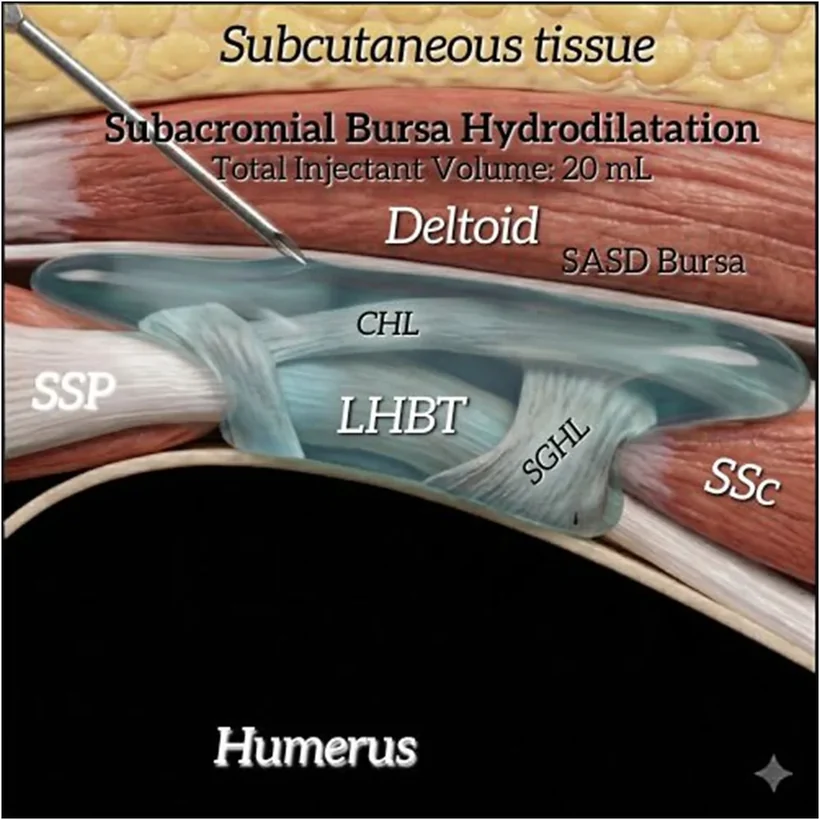
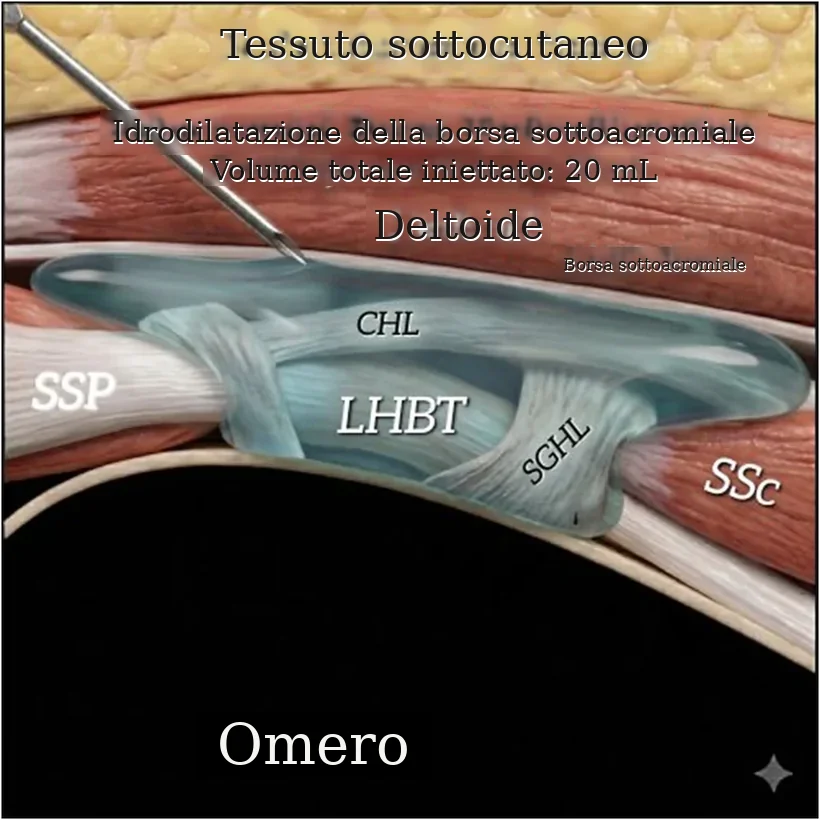
Add files via upload

diff --git a/procedure.html b/procedure.html
@@ -17,57 +17,91 @@ body{margin:0;font-family:system-ui,-apple-system,Segoe UI,Roboto,sans-serif;bac
 header{background:#0f3d5e;color:#fff;padding:36px 20px 40px;text-align:center}
 header h1{margin:0 0 8px;font-size:1.9rem;letter-spacing:-.5px}
 header h1 span{color:#7fe0bf}
-header p{margin:0 auto;max-width:560px;opacity:.9}
-header a.back{display:inline-block;margin-bottom:14px;color:#cfe6f5;font-size:.88rem;text-decoration:none}
-main{max-width:860px;margin:-22px auto 40px;padding:0 16px}
-.grid{display:grid;gap:16px;grid-template-columns:repeat(auto-fit,minmax(260px,1fr))}
-.card{background:#fff;border:1px solid #dbe3e9;border-radius:14px;padding:22px;display:flex;flex-direction:column;box-shadow:0 2px 8px rgba(15,61,94,.06)}
-.card h2{margin:6px 0 6px;font-size:1.15rem}
-.card p{margin:0 0 14px;color:#5b6b78;font-size:.92rem;flex:1}
-.tag{align-self:flex-start;font-size:.72rem;font-weight:700;letter-spacing:.4px;text-transform:uppercase;color:#1b8a6b;background:#e3f5ee;padding:3px 8px;border-radius:10px}
-.btns{display:flex;gap:8px;flex-wrap:wrap}
-.btn{display:inline-block;padding:9px 14px;border-radius:9px;background:#0f3d5e;color:#fff;text-decoration:none;font-weight:600;font-size:.9rem}
-.btn.sec{background:#fff;color:#0f3d5e;border:1px solid #0f3d5e}
-.soon{opacity:.6;border-style:dashed}
-.soon .tag{color:#5b6b78;background:#eceff2}
-h3{margin:34px 0 12px;font-size:.85rem;text-transform:uppercase;letter-spacing:.6px;color:#5b6b78}
-.disc{background:#fff8e6;border:1px solid #f0d58c;border-radius:12px;padding:14px 16px;font-size:.88rem;color:#5a4a12;margin-top:28px}
-footer{text-align:center;color:#5b6b78;font-size:.82rem;padding:0 16px 32px}
-
+header p{margin:0 auto;max-width:600px;opacity:.9}
 nav.sub{background:#fff;border-bottom:1px solid #dbe3e9;position:sticky;top:0;z-index:5;display:flex;gap:4px;justify-content:center;flex-wrap:wrap;padding:8px}
 nav.sub a{padding:7px 14px;border-radius:18px;text-decoration:none;color:#0f3d5e;font-weight:600;font-size:.9rem}
 nav.sub a.on{background:#0f3d5e;color:#fff}
-.dist{margin:0 0 22px}
-.dist h2{font-size:1.05rem;margin:0 0 10px;color:#0f3d5e}
-.list{display:flex;flex-wrap:wrap;gap:8px}
-.item{background:#fff;border:1px dashed #b9c6d0;border-radius:10px;padding:8px 12px;font-size:.9rem;color:#5b6b78}
-a.item{border:1px solid #0f3d5e;color:#0f3d5e;text-decoration:none;font-weight:600}
-.item small{display:block;font-size:.7rem;text-transform:uppercase;letter-spacing:.4px;color:#8896a2}
-.sec{background:#fff;border:1px solid #dbe3e9;border-radius:14px;padding:18px 20px;margin-bottom:14px}
-.sec h2{margin:0 0 6px;font-size:1.05rem;color:#0f3d5e}
-.sec p{margin:0;color:#5b6b78;font-size:.93rem}
-main{margin-top:0;padding-top:28px}
+main{max-width:1180px;margin:0 auto 44px;padding:30px 16px 0}
+
+.fam{margin:0 0 34px}
+.fam h2{margin:0;font-size:1.18rem;color:#0f3d5e;letter-spacing:-.2px}
+.fam h2::after{content:"";display:block;width:46px;height:3px;background:#7fe0bf;border-radius:2px;margin-top:7px}
+.fam p.sotto{margin:10px 0 16px;color:#5b6b78;font-size:.94rem;max-width:720px}
+
+.griglia{display:grid;gap:18px;grid-template-columns:repeat(auto-fill,minmax(285px,1fr))}
+a.scheda{display:flex;flex-direction:column;background:#fff;border:1px solid #dbe3e9;border-radius:14px;overflow:hidden;text-decoration:none;color:inherit;box-shadow:0 2px 8px rgba(15,61,94,.06);transition:transform .16s,border-color .16s,box-shadow .16s}
+a.scheda:hover{transform:translateY(-3px);border-color:#0f3d5e;box-shadow:0 8px 20px rgba(15,61,94,.13)}
+a.scheda img{display:block;width:100%;height:auto;aspect-ratio:740/420;object-fit:cover;background:#eef3f6;border-bottom:1px solid #e4ebf0}
+.testo{padding:14px 16px 16px;display:flex;flex-direction:column;gap:5px;flex:1}
+.testo b{color:#0f3d5e;font-size:1.02rem;line-height:1.3}
+.testo em{font-style:normal;color:#5b6b78;font-size:.88rem}
+a.scheda .freccia{margin-top:auto;padding-top:10px;color:#1b8a6b;font-weight:600;font-size:.85rem}
+a.scheda:hover .freccia{color:#0f3d5e}
+
+.vuota{display:flex;flex-direction:column;justify-content:center;gap:5px;background:#fff;border:1px dashed #b9c6d0;border-radius:14px;padding:18px 16px;color:#5b6b78;min-height:120px}
+.vuota b{display:block;color:#5b6b78;font-size:1.02rem}
+.vuota small{font-size:.7rem;text-transform:uppercase;letter-spacing:.5px;color:#8896a2}
+
+.disc{background:#fff8e6;border:1px solid #f0d58c;border-radius:12px;padding:14px 16px;font-size:.88rem;color:#5a4a12;margin-top:6px}
+footer{text-align:center;color:#5b6b78;font-size:.82rem;padding:0 16px 32px}
+:focus-visible{outline:3px solid #1b8a6b;outline-offset:2px}
+@media (prefers-reduced-motion:reduce){*{transition:none!important}a.scheda:hover{transform:none}}
+@media (max-width:460px){.griglia{grid-template-columns:1fr}}
 </style>
 </head>
 <body>
 <nav class="sub"><a href="index.html">← iltuofisiatra.it</a><a href="pazienti.html">Area pazienti</a><a href="patologie.html">Patologie</a><a href="procedure.html" class=on>Procedure</a></nav>
 <header>
   <h1><span>Procedure</span></h1>
-  <p>I trattamenti proposti in ambulatorio.</p>
+  <p>I trattamenti proposti in ambulatorio, uno per uno: come si esegue la seduta, in quali casi si propone e che cosa ci si può aspettare.</p>
 </header>
 <main>
-  <section class="dist"><h2>Agopuntura</h2><div class="list"><a class="item" href="agopuntura.html">Agopuntura antalgica</a><span class="item">Riflessologia agopunturale<small>Da realizzare</small></span></div></section>
-  <section class="dist"><h2>Elettrolisi percutanea</h2><div class="list"><a class="item" href="elettrolisi-percutanea.html">Elettrolisi percutanea ecoguidata</a></div></section>
-  <section class="dist"><h2>Infiltrazioni</h2><div class="list"><a class="item" href="proloterapia.html">Proloterapia</a><a class="item" href="infiltrazione-spalla.html">Infiltrazione della spalla: a mano libera ed ecoguidata</a><a class="item" href="infiltrazione-anca.html">Infiltrazione ecoguidata dell&#x27;anca</a><a class="item" href="acido-ialuronico.html">Acido ialuronico e viscosupplementazione</a></div></section>
-  <section class="dist"><h2>Medicina manuale e manipolazioni</h2><div class="list"><a class="item" href="terapia-manuale.html">Terapia manuale e manipolazioni</a></div></section>
-  <section class="dist"><h2>Mesoterapia</h2><div class="list"><a class="item" href="mesoterapia.html">Mesoterapia</a></div></section>
-  <section class="dist"><h2>Onde d'urto</h2><div class="list"><a class="item" href="onde-durto.html">Onde d&#x27;urto extracorporee</a></div></section>
-  <section class="dist"><h2>Ossigeno-ozono terapia</h2><div class="list"><a class="item" href="ossigeno-ozono.html">Ossigeno-ozono terapia</a></div></section>
-  <section class="dist"><h2>Radioguidati</h2><div class="list"><a class="item" href="radiofrequenza-genicolare.html">Radiofrequenza dei nervi genicolari</a></div></section>
-  <section class="dist"><h2>Terapia vibrazionale</h2><div class="list"><a class="item" href="terapia-vibrazionale.html">Terapia vibrazionale focale</a></div></section>
-  <section class="dist"><h2>Tossina botulinica</h2><div class="list"><a class="item" href="tossina-botulinica.html">Tossina botulinica</a></div></section>
-  <section class="dist"><h2>Trattamenti ecoguidati</h2><div class="list"><a class="item" href="idrodilatazione-capsulite.html">Trattamento ecoguidato della capsulite adesiva (idrodilatazione)</a><a class="item" href="barbotage-calcificazioni.html">Barbotage (litoclasia) ecoguidato della spalla calcifica</a></div></section>
-  <section class="dist"><h2>Trigger point</h2><div class="list"><a class="item" href="trigger-point-dry-needling.html">Trigger point: infiltrazione e dry needling</a></div></section>
+
+  <section class="fam">
+    <h2>Infiltrazioni e iniezioni</h2>
+    <p class="sotto">Un farmaco portato nel punto esatto, a mano libera o seguendo l'ago con l'ecografo.</p>
+    <div class="griglia">
+      <a class="scheda" href="infiltrazione-spalla.html"><img src="th-infiltrazione-spalla.webp" width="740" height="420" alt="" loading="lazy" decoding="async"><span class="testo"><b>Infiltrazione della spalla</b><em>A mano libera ed ecoguidata: quando si propone, com'è la seduta e quanto dura l'effetto.</em><span class="freccia">Apri la scheda →</span></span></a>
+      <a class="scheda" href="infiltrazione-anca.html"><img src="th-infiltrazione-anca.webp" width="740" height="420" alt="" loading="lazy" decoding="async"><span class="testo"><b>Infiltrazione dell'anca</b><em>Perché si esegue con l'ecografo, quanto dura l'effetto e quando conviene.</em><span class="freccia">Apri la scheda →</span></span></a>
+      <a class="scheda" href="acido-ialuronico.html"><img src="th-acido-ialuronico.webp" width="740" height="420" alt="" loading="lazy" decoding="async"><span class="testo"><b>Acido ialuronico</b><em>Che cosa ci si può aspettare dalla viscosupplementazione, e che cosa no.</em><span class="freccia">Apri la scheda →</span></span></a>
+      <a class="scheda" href="ossigeno-ozono.html"><img src="th-ossigeno-ozono.webp" width="740" height="420" alt="" loading="lazy" decoding="async"><span class="testo"><b>Ossigeno-ozono terapia</b><em>Dove i dati sono incoraggianti, dove restano incerti e quali sono i limiti di dose.</em><span class="freccia">Apri la scheda →</span></span></a>
+      <a class="scheda" href="mesoterapia.html"><img src="th-mesoterapia.webp" width="740" height="420" alt="" loading="lazy" decoding="async"><span class="testo"><b>Mesoterapia</b><em>Micro-iniezioni di farmaco appena sotto la pelle, nel punto che fa male.</em><span class="freccia">Apri la scheda →</span></span></a>
+      <a class="scheda" href="proloterapia.html"><img src="th-proloterapia.webp" width="740" height="420" alt="" loading="lazy" decoding="async"><span class="testo"><b>Proloterapia</b><em>Dove ha mostrato di funzionare, e dove invece no.</em><span class="freccia">Apri la scheda →</span></span></a>
+      <a class="scheda" href="tossina-botulinica.html"><img src="th-tossina-botulinica.webp" width="740" height="420" alt="" loading="lazy" decoding="async"><span class="testo"><b>Tossina botulinica</b><em>Ridurre per qualche mese la contrazione involontaria di un muscolo.</em><span class="freccia">Apri la scheda →</span></span></a>
+    </div>
+  </section>
+
+  <section class="fam">
+    <h2>Trattamenti ecoguidati con ago</h2>
+    <p class="sotto">Qui l'ago non porta un farmaco: svuota un deposito di calcio, distende una capsula retratta, porta una corrente dentro il tendine.</p>
+    <div class="griglia">
+      <a class="scheda" href="barbotage-calcificazioni.html"><img src="th-barbotage-calcificazioni.webp" width="740" height="420" alt="" loading="lazy" decoding="async"><span class="testo"><b>Barbotage della spalla calcifica</b><em>Come si svuota con un ago il deposito di calcio nel tendine.</em><span class="freccia">Apri la scheda →</span></span></a>
+      <a class="scheda" href="idrodilatazione-capsulite.html"><img src="th-idrodilatazione-capsulite.webp" width="740" height="420" alt="" loading="lazy" decoding="async"><span class="testo"><b>Idrodilatazione della capsulite</b><em>Distendere con un liquido la capsula retratta nella spalla congelata.</em><span class="freccia">Apri la scheda →</span></span></a>
+      <a class="scheda" href="elettrolisi-percutanea.html"><img src="th-elettrolisi-percutanea.webp" width="740" height="420" alt="" loading="lazy" decoding="async"><span class="testo"><b>Elettrolisi percutanea</b><em>Una corrente portata nel tendine con un ago, sempre insieme agli esercizi.</em><span class="freccia">Apri la scheda →</span></span></a>
+    </div>
+  </section>
+
+  <section class="fam">
+    <h2>Terapie strumentali</h2>
+    <p class="sotto">Energia applicata al tessuto dall'esterno o attraverso un ago: onde acustiche, vibrazione, radiofrequenza.</p>
+    <div class="griglia">
+      <a class="scheda" href="onde-durto.html"><img src="th-onde-durto.webp" width="740" height="420" alt="" loading="lazy" decoding="async"><span class="testo"><b>Onde d'urto extracorporee</b><em>Onde acustiche applicate sulla pelle per trattare tendini e fasce.</em><span class="freccia">Apri la scheda →</span></span></a>
+      <a class="scheda" href="radiofrequenza-genicolare.html"><img src="th-radiofrequenza-genicolare.webp" width="740" height="420" alt="" loading="lazy" decoding="async"><span class="testo"><b>Radiofrequenza dei nervi genicolari</b><em>Interrompere per alcuni mesi i nervi che portano il dolore del ginocchio.</em><span class="freccia">Apri la scheda →</span></span></a>
+      <a class="scheda" href="terapia-vibrazionale.html"><img src="th-terapia-vibrazionale.webp" width="740" height="420" alt="" loading="lazy" decoding="async"><span class="testo"><b>Terapia vibrazionale focale</b><em>Vibrazioni su un singolo muscolo per ridurne la rigidità.</em><span class="freccia">Apri la scheda →</span></span></a>
+    </div>
+  </section>
+
+  <section class="fam">
+    <h2>Agopuntura, dry needling e terapia manuale</h2>
+    <p class="sotto">Senza farmaci: l'ago da solo, oppure le mani sulle articolazioni e sui tessuti molli.</p>
+    <div class="griglia">
+      <a class="scheda" href="agopuntura.html"><img src="th-agopuntura.webp" width="740" height="420" alt="" loading="lazy" decoding="async"><span class="testo"><b>Agopuntura antalgica</b><em>Dove il beneficio è stato misurato, e quanto è grande.</em><span class="freccia">Apri la scheda →</span></span></a>
+      <a class="scheda" href="trigger-point-dry-needling.html"><img src="th-trigger-point-dry-needling.webp" width="740" height="420" alt="" loading="lazy" decoding="async"><span class="testo"><b>Trigger point e dry needling</b><em>L'ago nel punto dolente del muscolo, con o senza farmaco.</em><span class="freccia">Apri la scheda →</span></span></a>
+      <a class="scheda" href="terapia-manuale.html"><img src="th-terapia-manuale.webp" width="740" height="420" alt="" loading="lazy" decoding="async"><span class="testo"><b>Terapia manuale e manipolazioni</b><em>Le mani su articolazioni e tessuti molli, e che cosa ci si può aspettare.</em><span class="freccia">Apri la scheda →</span></span></a>
+      <div class="vuota"><b>Riflessologia agopunturale</b><small>Da realizzare</small></div>
+    </div>
+  </section>
+
   <div class="disc"><strong>Avvertenza.</strong> Le informazioni hanno scopo divulgativo e non sostituiscono la visita medica. In caso di dubbi o sintomi rivolgiti al tuo medico; in caso di emergenza chiama il 112.</div>
 </main>
 <footer>© iltuofisiatra.it — Dott. Flavio Mignone</footer>

diff --git a/trigger-point-dry-needling.html b/trigger-point-dry-needling.html
@@ -162,7 +162,7 @@ figure.fig>img.alta{max-height:520px}
 </div>
   <figure class="fig">
     <img src="img-proc-piriforme-eco.webp" width="736" height="229" alt="Ecografia della regione glutea con il muscolo piriforme e la profondità del nervo sciatico" loading="eager" fetchpriority="high" decoding="async">
-    <figcaption>Ecografia della regione glutea. A sinistra l'immagine come appare, a destra la stessa con le strutture colorate: il tessuto sottocutaneo (S.T.), il grande gluteo (G.M.) e sotto di esso il piriforme (P), con il sacro e l'ischio ai lati. La freccia azzurra misura la distanza fra la pelle e il nervo sciatico, che corre proprio lì sotto: è la ragione per cui in questa sede l'ago non si infila a stima.<small>Immagine: Valera-Calero JA et al., <i>Journal of Clinical Medicine</i> 2024, <a href="https://creativecommons.org/licenses/by/4.0/" rel="license">CC BY 4.0</a>, via PubMed Central; etichette tradotte in italiano.</small></figcaption>
+    <figcaption>Ecografia della regione glutea. A sinistra l'immagine come appare, a destra la stessa con le strutture colorate: il tessuto sottocutaneo (S.T.), il grande gluteo (G.M.) e sotto di esso il piriforme (P), con il sacro e l'ischio ai lati. La freccia azzurra misura la distanza fra la pelle e il nervo sciatico, che corre proprio lì sotto: è la ragione per cui in questa sede l'ago non si infila a stima.<small>Immagine: Valera-Calero JA et al., <i>Journal of Clinical Medicine</i> 2024, <a href="https://creativecommons.org/licenses/by/4.0/" rel="license">CC BY 4.0</a>, via PubMed Central; etichette tradotte in italiano, marchio dell’apparecchio rimosso.</small></figcaption>
   </figure>
 
 <div class="sec">

diff --git a/idrodilatazione-capsulite.html b/idrodilatazione-capsulite.html
@@ -164,7 +164,7 @@ figure.fig>img.alta{max-height:520px}
 </div>
   <figure class="fig">
     <img class="alta" src="img-proc-idrodilatazione.webp" width="820" height="820" alt="Disegno anatomico della spalla con l&#x27;ago che raggiunge la borsa per l&#x27;idrodistensione" loading="eager" fetchpriority="high" decoding="async">
-    <figcaption>L'ago attraversa il tessuto sottocutaneo e il deltoide e arriva nella borsa che sta fra l'acromion e il tendine sovraspinato, dove viene iniettato il liquido: qui 20 mL. Attorno si riconoscono le strutture dell'intervallo dei rotatori — CHL è il legamento coraco-omerale, LHBT il tendine del capo lungo del bicipite, SGHL il legamento gleno-omerale superiore, SSP il sovraspinato, SSc il sottoscapolare.<small>Illustrazione: Mohamad AA et al., <i>Orthopaedic Surgery</i> 2026, <a href="https://creativecommons.org/licenses/by/4.0/" rel="license">CC BY 4.0</a>, via PubMed Central.</small></figcaption>
+    <figcaption>L'ago attraversa il tessuto sottocutaneo e il deltoide e arriva nella borsa che sta fra l'acromion e il tendine sovraspinato, dove viene iniettato il liquido: qui 20 mL. Attorno si riconoscono le strutture dell'intervallo dei rotatori — CHL è il legamento coraco-omerale, LHBT il tendine del capo lungo del bicipite, SGHL il legamento gleno-omerale superiore, SSP il sovraspinato, SSc il sottoscapolare.<small>Illustrazione: Mohamad AA et al., <i>Orthopaedic Surgery</i> 2026, <a href="https://creativecommons.org/licenses/by/4.0/" rel="license">CC BY 4.0</a>, via PubMed Central; etichette tradotte in italiano.</small></figcaption>
   </figure>
 
 <div class="sec">
